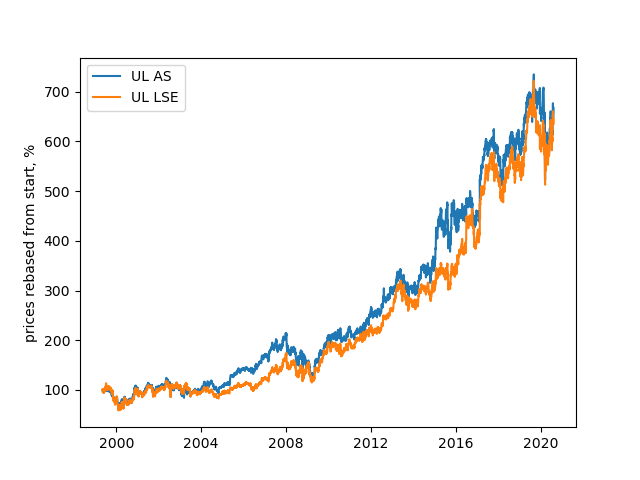
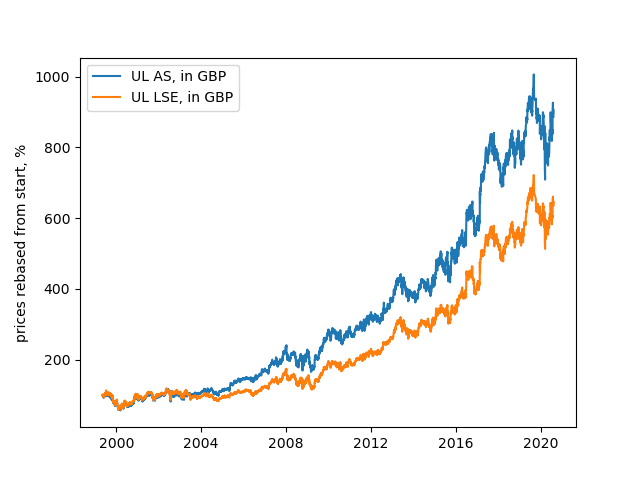
add euro to pound fx rate, update plots with fx rate

diff --git a/plot_UL.py b/plot_UL.py
@@ -3,7 +3,7 @@ from dateutil import parser
 import matplotlib.pyplot as plt
 import numpy as np
 
-def get_price_dict(file_name):
+def get_file_dict(file_name):
 	price_dict = {}
 	with open(file_name, newline='') as file:
 		reader = csv.reader(file, delimiter=',')
@@ -16,23 +16,24 @@ def get_price_dict(file_name):
 			price_dict[row_date] = float(row[1])
 	return price_dict
 
-UL_A = get_price_dict("Unilever_AS.csv")
-UL_L = get_price_dict("Unilever_LSE.csv")
+UL_A = get_file_dict("Unilever_AS.csv")
+UL_L = get_file_dict("Unilever_LSE.csv")
+EUR_GBP = get_file_dict("EURGBP.csv")
 
-common_dates = list(UL_A.keys() & UL_L.keys())
+common_dates = list(UL_A.keys() & UL_L.keys() & EUR_GBP.keys())
 common_dates.sort()
 
 UL_A_prices = []
 UL_L_prices = []
 for common_date in common_dates:
-	UL_A_prices.append(UL_A[common_date])
+	UL_A_prices.append(UL_A[common_date]*EUR_GBP[common_date])
 	UL_L_prices.append(UL_L[common_date])
 
 UL_A_rebased = np.array(UL_A_prices)/UL_A_prices[0]*100.0
 UL_L_rebased = np.array(UL_L_prices)/UL_L_prices[0]*100.0
 
-plt.plot(common_dates, UL_A_rebased, label="UL AS")
-plt.plot(common_dates, UL_L_rebased, label="UL LSE")
+plt.plot(common_dates, UL_A_rebased, label="UL AS, in GBP")
+plt.plot(common_dates, UL_L_rebased, label="UL LSE, in GBP")
 plt.ylabel('prices rebased from start, %')
 plt.legend(loc="upper left")
 plt.show()
@@ -40,8 +41,8 @@ plt.show()
 UL_A_log_ret = np.diff(np.log(UL_A_prices))
 UL_L_log_ret = np.diff(np.log(UL_L_prices))
 
-plt.plot(common_dates[1:], UL_A_log_ret, label="UL AS")
-plt.plot(common_dates[1:], UL_L_log_ret, label="UL LSE")
+plt.plot(common_dates[1:], UL_A_log_ret, label="UL AS, in GBP")
+plt.plot(common_dates[1:], UL_L_log_ret, label="UL LSE, in GBP")
 plt.ylabel('log returns')
 plt.legend(loc="upper left")
 plt.show()
